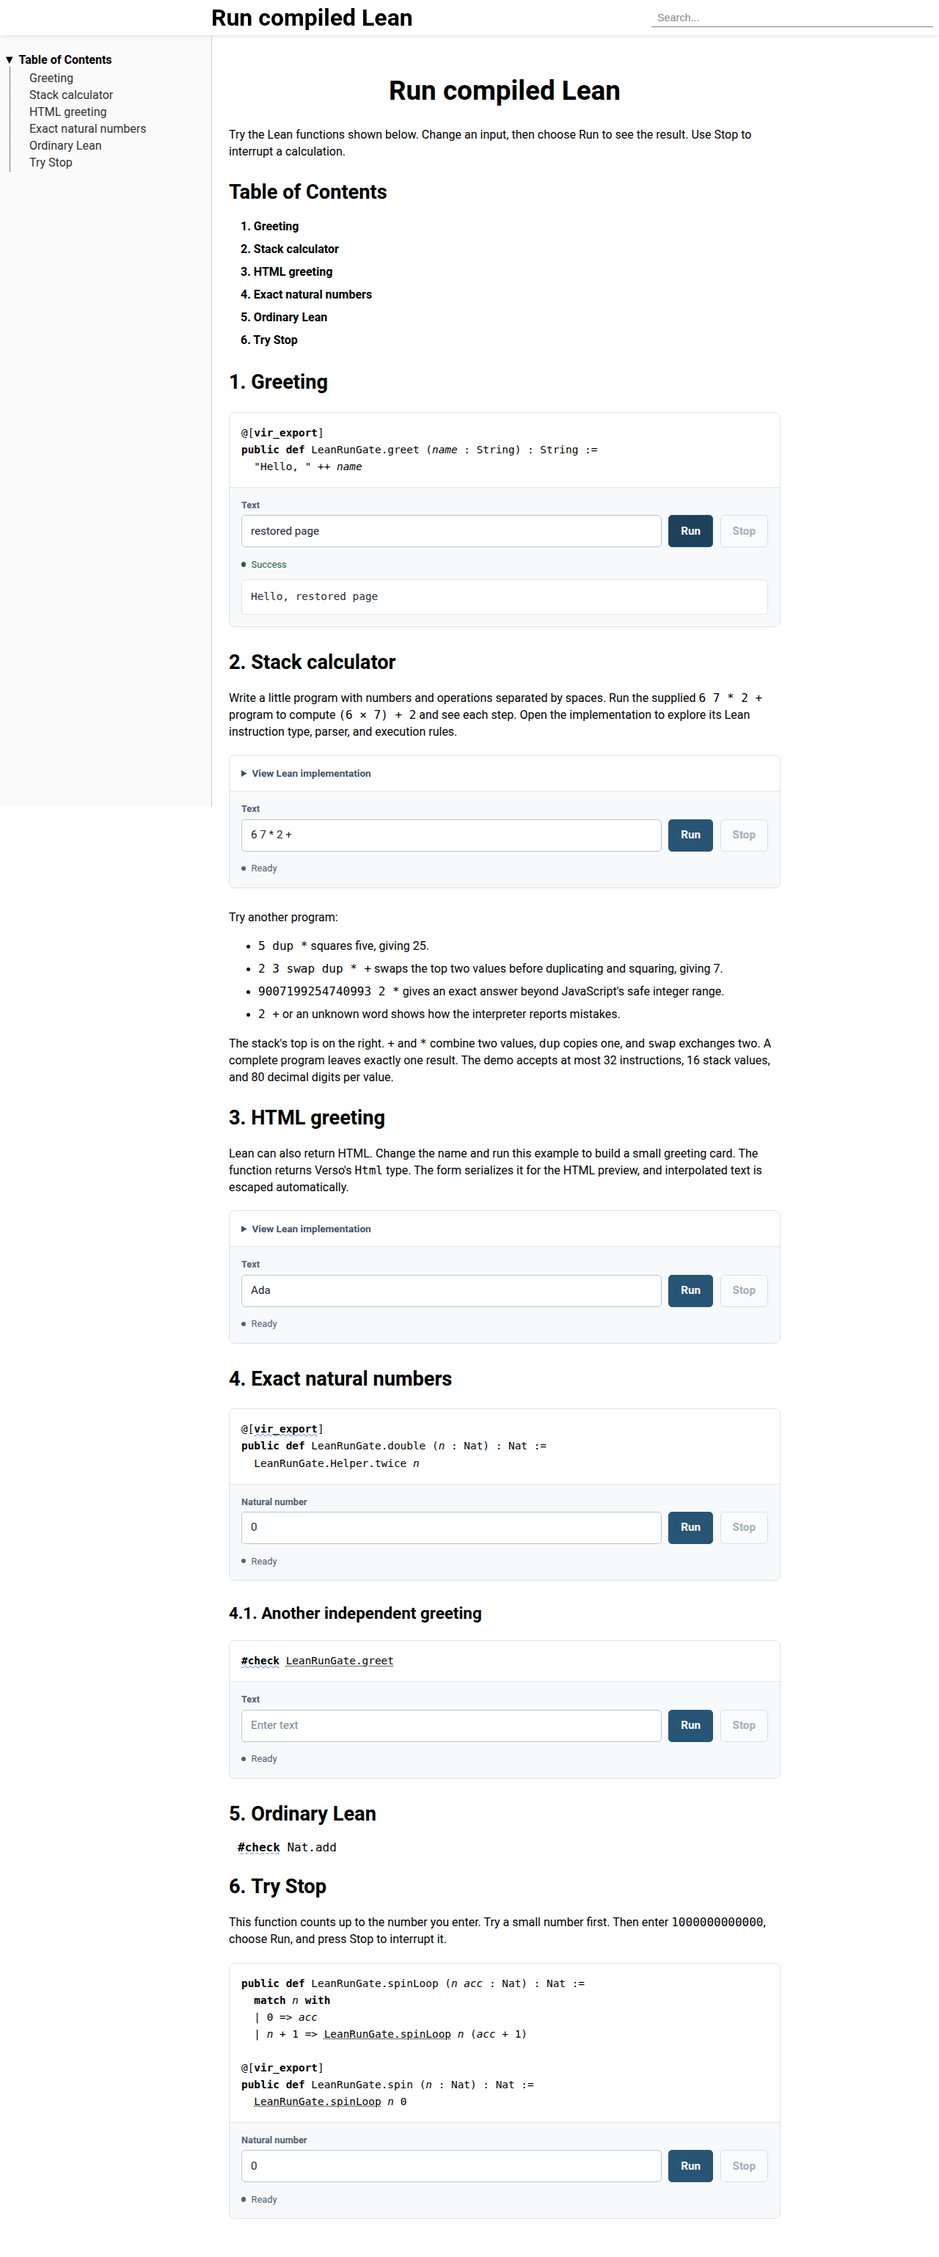
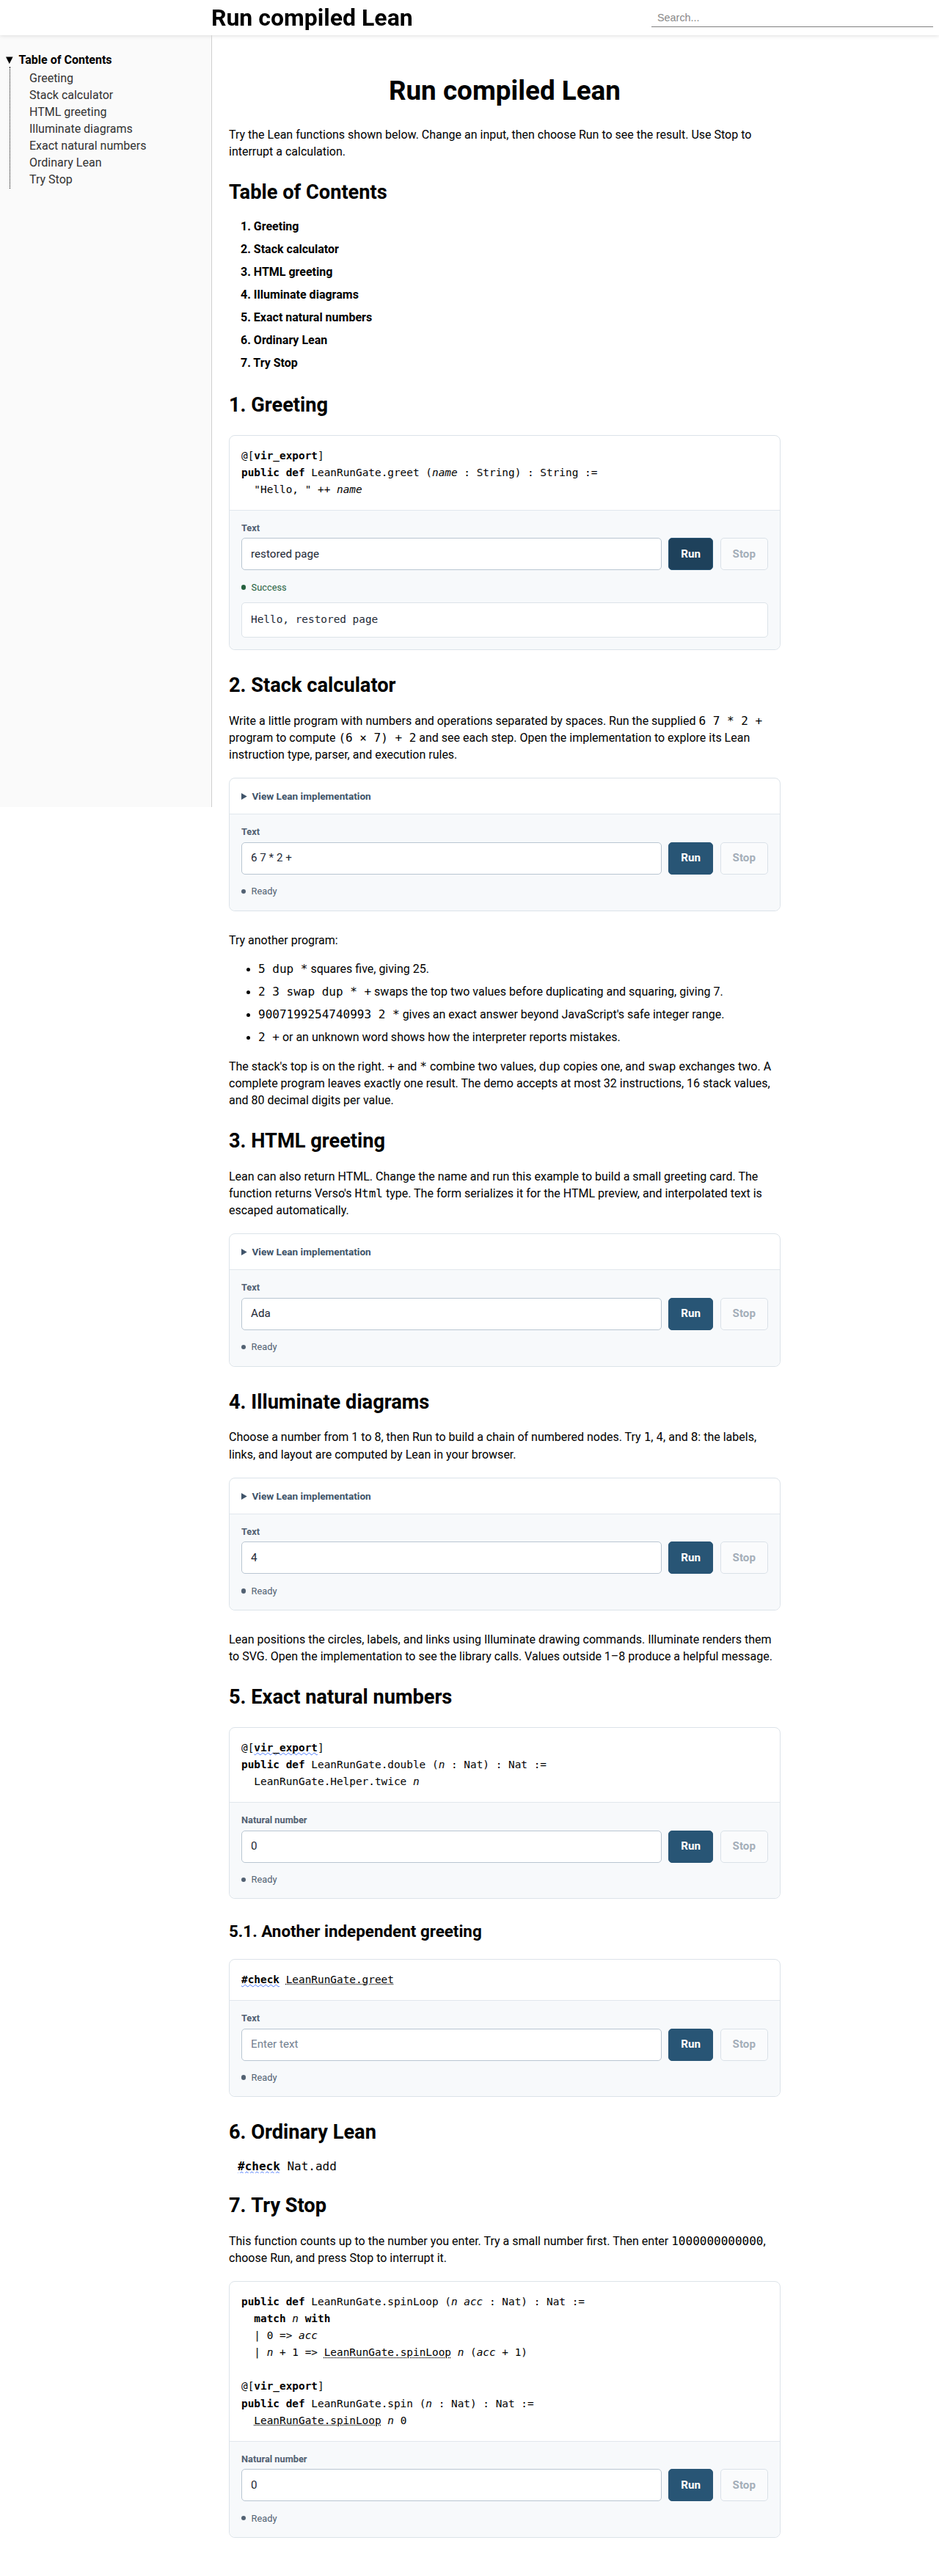
feat: add a compiled Illuminate SVG demo
This PR adds an editable Illuminate node-chain example to the compiled Manual demo. Parse a count from 1 to 8, compute coordinates and a view box in Lean, and render real SVG through Illuminate's public PathData, Matrix, DrawCmd, style, and Svg.render APIs. Return typed Verso HTML through the existing generated scalar adapter and sandboxed preview.

Pin Illuminate to the release's Lean 4.34 revision and update VIR to PR #217 snapshot 1ed079ca. Retain the locked runtime and existing compiler contracts. Record reproducible Float.toBits, Float.atan, and Float.asin gaps in the general diagram pipeline; qualify the drawing-command path and preserve native library source.

Validate a clean optional-package build, all 55 native/browser acceptance and mutation checks, root lake build, and lake test (647 tests plus 10 editor checks). Cover edited SVG labels, links, native markup, changing geometry, count bounds, copied root/nested deployments, source fallback, and the retained lifecycle/registration checks. Inspect desktop/mobile/320px layouts and refresh the live demo, archive, screenshots, and evidence.

Changelog-label: changelog-feature

diff --git a/tests/acceptance.py b/tests/acceptance.py
@@ -42,7 +42,7 @@ plan = json.loads((site/'html-multi/lean-run/publication.json').read_text())
 assert plan == json.loads((site/'html-single/lean-run/publication.json').read_text())
 assert plan == json.loads((OUTPUT/'native-only/html-multi/lean-run/publication.json').read_text())
 published = plan['programs']['LeanRunGate.Chapter']
-for declaration, type_name in [('greet', 'String'), ('Stack.run', 'String'), ('htmlGreeting.leanRunHtml', 'String'), ('double', 'Nat'), ('spin', 'Nat')]:
+for declaration, type_name in [('greet', 'String'), ('Stack.run', 'String'), ('htmlGreeting.leanRunHtml', 'String'), ('diagram.leanRunHtml', 'String'), ('double', 'Nat'), ('spin', 'Nat')]:
     contract = published['LeanRunGate.'+declaration]['expectedExport']
     assert contract['declaration'] == 'LeanRunGate.'+declaration
     assert contract['signature']['effect'] == 'pure'
@@ -118,6 +118,7 @@ with sync_playwright() as p:
     spin = form_for('LeanRunGate.spin')
     calculator = form_for('LeanRunGate.Stack.run')
     html_form = form_for('LeanRunGate.htmlGreeting.leanRunHtml')
+    diagram_form = form_for('LeanRunGate.diagram.leanRunHtml')
     assert calculator.locator('details').get_attribute('open') is None
     calculator.locator('summary').press('Enter')
     assert calculator.locator('details').get_attribute('open') is not None
@@ -187,6 +188,39 @@ with sync_playwright() as p:
     assert html_form.frame_locator('iframe').locator('h2').inner_text() == 'Hello, after edit!'
     record('HTML preview is isolated and cleared on input changes before a fresh invocation')
 
+    assert diagram_form.locator('input').input_value() == '4'
+    diagram_widths = []
+    for count in [1, 4, 8, 2]:
+        assert call(diagram_form, str(count)) == ''
+        markup = oracle('diagram', str(count))
+        assert markup in diagram_form.locator('iframe').get_attribute('srcdoc')
+        frame = diagram_form.frame_locator('iframe')
+        svg = frame.locator('svg')
+        assert svg.count() == 1
+        assert svg.locator('text').all_text_contents() == [str(i+1) for i in range(count)]
+        assert svg.locator('path[fill="none"]').count() == 2 * count - 1
+        assert svg.locator('path[fill="rgb(237,245,255)"]').count() == count
+        assert f'{count} nodes, {count-1} links' in frame.locator('body').inner_text()
+        assert svg.locator('script').count() == 0
+        assert svg.evaluate('e => e.getBoundingClientRect().width > 0')
+        bounds = [float(x) for x in svg.get_attribute('viewBox').split()]
+        assert bounds == [-29, -29, (count-1)*60+58, 58]
+        diagram_widths.append(bounds[2])
+    assert diagram_widths[0] < diagram_widths[1] < diagram_widths[2]
+    record('Illuminate SVG drawing commands execute in Wasm with native markup, labels, links and changing geometry')
+    for value in ['', '0', '9', '-1', '1.5', 'nodes', '100000000000000000000']:
+        assert call(diagram_form, value) == ''
+        assert oracle('diagram', value) in diagram_form.locator('iframe').get_attribute('srcdoc')
+        frame = diagram_form.frame_locator('iframe')
+        assert 'from 1 to 8' in frame.locator('[role=alert]').inner_text()
+        assert frame.locator('svg').count() == 0
+    assert call(diagram_form, '3') == ''
+    assert diagram_form.frame_locator('iframe').locator('svg text').count() == 3
+    diagram_form.locator('input').fill('5')
+    assert diagram_form.locator('iframe').is_hidden()
+    assert call(diagram_form, '5') == ''
+    record('Illuminate validates bounded node counts and clears/recreates its preview after edits')
+
     page.reload()
     page.wait_for_selector('.lean-run[data-enhanced]')
     html_form = form_for('LeanRunGate.htmlGreeting.leanRunHtml')
@@ -250,7 +284,7 @@ with sync_playwright() as p:
     record('native/browser exact Nat oracle: zero, edited, large integers')
     assert call(other,'independent') == oracle('greet','independent')
     assert greeting.locator('.lean-run-output').text_content() == oracle('greet','<img src=x onerror=alert(1)>')
-    assert len(set(page.locator('.lean-run').evaluate_all('(es) => es.map(e => e.dataset.instance)'))) == 6
+    assert len(set(page.locator('.lean-run').evaluate_all('(es) => es.map(e => e.dataset.instance)'))) == 7
     record('independent repeated placements')
     for value in ['-1','1.5','abc','',' 1','1e3','9'*257]:
         numeric.locator('input').fill(value)
@@ -327,20 +361,32 @@ with sync_playwright() as p:
         page.wait_for_selector('.lean-run[data-enhanced]')
         assert call(form_for('LeanRunGate.greet'),'relocated') == oracle('greet','relocated')
     record('copied output executes from root and nested page/prefix')
+    for path in ['root/Illuminate-diagrams/', 'nested/prefix/manual/Illuminate-diagrams/']:
+        page.goto(base+path)
+        page.wait_for_selector('.lean-run[data-enhanced]')
+        form = form_for('LeanRunGate.diagram.leanRunHtml')
+        assert call(form, '6') == ''
+        assert oracle('diagram', '6') in form.locator('iframe').get_attribute('srcdoc')
+        assert form.frame_locator('iframe').locator('svg text').count() == 6
+    record('Illuminate executes from copied root and nested HTTP deployments')
     context = browser.new_context(java_script_enabled=False)
     plain = context.new_page()
     plain.goto(base+'single/')
     assert 'public def LeanRunGate.greet' in plain.locator('body').inner_text()
     assert '#check Nat.add' in plain.locator('body').inner_text()
     assert plain.locator('.lean-run [type=submit]').first.is_disabled()
-    assert plain.locator('.lean-run noscript').count() == 6
+    assert plain.locator('.lean-run noscript').count() == 7
     assert all('Enable JavaScript' in text for text in plain.locator('.lean-run noscript').all_text_contents())
     plain_calculator = plain.locator('.lean-run[data-experiment*="LeanRunGate.Stack.run"]')
     plain_calculator.locator('summary').click()
     assert 'public inductive Instruction' in plain_calculator.locator('.lean-run-source').inner_text()
+    plain_diagram = plain.locator('.lean-run[data-experiment*="LeanRunGate.diagram.leanRunHtml"]')
+    plain_diagram.locator('summary').click()
+    assert 'public def LeanRunGate.diagram' in plain_diagram.locator('.lean-run-source').inner_text()
+    assert 'Svg.render' in plain_diagram.locator('.lean-run-source').inner_text()
     context.close()
     tex=(site/'tex/main.tex').read_text()
-    assert 'LeanRunGate' in tex and 'Nat.add' in tex and 'Instruction' in tex
+    assert 'LeanRunGate' in tex and 'Nat.add' in tex and 'Instruction' in tex and 'Svg.render' in tex
     record('JavaScript-disabled highlighting and TeX source fallback')
     assert not errors, errors
 

diff --git a/README.md b/README.md
@@ -2,7 +2,7 @@
 
 This optional package adds a first Run form to Verso Manual. Lean elaborates and compiles the displayed declarations during the document build. A dedicated browser worker calls those retained declarations through VIR's public resource API. Readers edit inputs, not Lean source.
 
[2 lines of base64/hex data omitted]
 
 ## Build, generate, serve, test
 
@@ -18,9 +18,13 @@ Open <http://127.0.0.1:8794/Greeting/>. Single-page output is in `_out/html-sing
 
 For the longer internal-demo example, open <http://127.0.0.1:8794/Stack-calculator/>. It implements a small typed instruction language, parser, stack evaluator, and execution trace in the displayed Lean code. Run the supplied `6 7 * 2 +` program, then try `5 dup *`, `2 3 swap dup * +`, or `9007199254740993 2 *`. An empty program, unknown instruction, or stack underflow returns a readable explanation. The demo bounds programs to 32 instructions, stacks to 16 values, and numbers to 80 decimal digits, including intermediate results.
 
-A clean complete copy for sharing is available at `_out/lean-run-demo.zip`. Unpack it, then run `python3 -m http.server 8794 --directory lean-run-demo` and open `/Stack-calculator/` or `/HTML-greeting/`. The recipient needs no Lean installation.
+A clean complete copy for sharing is available at `_out/lean-run-demo.zip`. Unpack it, then run `python3 -m http.server 8794 --directory lean-run-demo` and open `/Stack-calculator/`, `/HTML-greeting/`, or `/Illuminate-diagrams/`. The recipient needs no Lean installation.
 
 Open <http://127.0.0.1:8794/HTML-greeting/> for a small HTML example. Its Lean function returns Verso’s `Html` type for a styled greeting card. The block generates a scalar export using `Html.asString` and selects the HTML preview automatically. Verso’s HTML syntax escapes interpolated names.
+
+Open <http://127.0.0.1:8794/Illuminate-diagrams/> for the library example. Enter a node count from 1 to 8 and Run: Lean positions numbered circles and links, builds Illuminate drawing commands, and renders SVG through `Illuminate.Svg.render`. The browser only displays the returned markup. Invalid counts produce a helpful message. The displayed function returns `Verso.Output.Html` and uses the existing generated scalar adapter.
+
+Illuminate is pinned to `a1a61c9678da010e958ed24cdfa6f635b85f172a`, the same Lean 4.34.0 revision used by this Verso release. The example uses its public `DrawCmd`, `PathData`, `Matrix`, style, and SVG APIs. Layout coordinates and the view box are computed in the example. It is qualified for this drawing-command path; general `Diagram.renderDiagram` and `Diagram.compile` still reach float operations absent from the locked VIR runtime. Reproducible author fixtures and details are in [`evidence/illuminate-gates.md`](evidence/illuminate-gates.md).
 
 The optional package's test driver uses the repository's Python/Playwright browser tooling. Install `uv` and a Chromium browser first. Tests use installed `google-chrome` when available, otherwise Playwright's installed Chromium:
 
@@ -134,6 +138,6 @@ Forms group the highlighted source above a quiet input/result area, with aligned
 
 ## Retained evidence
 
-`evidence/results.json` records the 49 final acceptance checks and exact publication identities; `evidence/manual.png` is a browser capture. `evidence/worker-gate.json` retains the independent public API create/call/dispose/recreate gate, and `evidence/validation.txt` records root regression results. The browser checks cover edited inputs, Unicode, exact integers above JavaScript's safe range, repeated placements, real long-running interruption, pending-load cancellation, ignored stale outcomes, missing resources with explicit recovery, root/nested copied publication, disabled JavaScript, TeX, body/helper invalidation, restored identity, compiler-signature publication in both layouts and native-only generation, rejection of mismatched or missing expectations before invocation, duplicate/missing/ambiguous registration, and carrier relocation across source/build roots with unchanged publication. Screenshots supplement those execution checks. `evidence/design-results.json` records the 30 non-mutation interaction checks repeated after the visual refinement; `design-desktop.png`, `design-mobile.png`, and the other `design-*.png` captures show the final layout. Chromium reviews cover 1280px, 390px, and 320px widths, keyboard submission/focus, long exact-Nat wrapping, narrow-screen search, and the JavaScript-disabled fallback. The 49-check campaign in `results.json` additionally covers the calculator preset/trace, arithmetic, errors, bounds, source disclosure, typed HTML adapter reuse and collision checks, non-executable/private entry rejection, HTML preview/native markup agreement, escaped input, isolation, cleanup, and failure recovery. `calculator-*.png` captures the longer example with its source panel closed and open.
+`evidence/results.json` records the 55 final acceptance checks and exact publication identities; `evidence/manual.png` is a browser capture. `evidence/worker-gate.json` retains the independent public API create/call/dispose/recreate gate, and `evidence/validation.txt` records root regression results. The browser checks cover edited inputs, Unicode, exact integers above JavaScript's safe range, repeated placements, real long-running interruption, pending-load cancellation, ignored stale outcomes, missing resources with explicit recovery, root/nested copied publication, disabled JavaScript, TeX, body/helper invalidation, restored identity, compiler-signature publication in both layouts and native-only generation, rejection of mismatched or missing expectations before invocation, duplicate/missing/ambiguous registration, and carrier relocation across source/build roots with unchanged publication. Screenshots supplement those execution checks. `evidence/design-results.json` records the 30 non-mutation interaction checks repeated after the visual refinement; `design-desktop.png`, `design-mobile.png`, and the other `design-*.png` captures show the final layout. Chromium reviews cover 1280px, 390px, and 320px widths, keyboard submission/focus, long exact-Nat wrapping, narrow-screen search, and the JavaScript-disabled fallback. The 55-check campaign in `results.json` additionally covers the calculator preset/trace, arithmetic, errors, bounds, source disclosure, typed HTML adapter reuse and collision checks, non-executable/private entry rejection, HTML preview/native markup agreement, escaped input, isolation, cleanup, failure recovery, and Illuminate native/browser markup, drawing geometry, count bounds, and copied deployments. `illuminate-*.png` captures the new diagram on desktop and mobile. `calculator-*.png` captures the longer example with its source panel closed and open.
 
 Browser execution is qualified here in Chromium. Firefox, Safari, physical mobile devices, and assistive-technology audits were not exercised. The cached-page lifecycle handler is checked with a persisted `PageTransitionEvent`; actual back-cache restoration across browsers remains unqualified. Porting to current Verso main's Lean 4.35.0-rc3 requires a compatible VIR/runtime release and is not included.

diff --git a/evidence/illuminate-gates.md b/evidence/illuminate-gates.md
@@ -1,0 +1,54 @@
+# Illuminate execution gates
+
+The diagram example uses unchanged Illuminate source at
+`a1a61c9678da010e958ed24cdfa6f635b85f172a` (Lean 4.34.0), matching the
+Verso release dependency. VIR is PR #217 snapshot
+`1ed079ca2ab8306ae877ed4920f7d55d392365f8`. Its runtime bundle remains
[1 lines of base64/hex data omitted]
+The earlier local Illuminate checkout at `006dc1d1` also built under 4.34,
+but the demo uses the matching release revision.
+
+## Accepted drawing-command path
+
+`LeanRunGate.diagram` parses and bounds the count (1–8), computes coordinates
+and a view box, constructs `PathData.circle`, line paths, matrix transforms,
+colors, and text as `Array (DrawCmd Empty)`, and calls `Svg.render`.
+It returns typed Verso HTML; its generated `diagram.leanRunHtml` wrapper uses
+Verso's serializer at the scalar VIR boundary. The SVG renderer receives a
+fixed frame-local prefix. Each SVG preview lives in its own sandboxed frame.
+
+No Illuminate or VIR source patches, native-provider profiles, JavaScript
+geometry implementation, or build-time SVG lookup are used. The reader's
+edited count is executed by the existing dedicated Wasm worker. The browser
+checks compare the markup to native Lean, then inspect actual SVG labels,
+filled/stroked paths and view boxes. They cover counts 1, 4, 8, 2 and additional
+reruns, malformed/out-of-range counts, source fallback, and copied HTTP output.
+
+## General diagram APIs remain unqualified
+
+From `experiments/lean-run`, the following committed fixtures must fail on
+this pinned runtime:
+
+```sh
+lake env lean tests/negative/IlluminateHashing.lean
+lake env lean tests/negative/IlluminateCompile.lean
+lake env lean tests/negative/IlluminateAsin.lean
+```
+
+- `Diagram.renderDiagram` hashes diagram geometry for SVG ID prefixes.
+  Its compiled dependency closure reaches unsupported `Float.toBits`.
+- Even a circle passed to `Diagram.compile` retains the general compiler's
+  arrow branches. The first reported unsupported operation is `Float.atan`
+  through `ArrowDraw.minHalfAngle`.
+- That helper also uses `Float.asin`; the third fixture isolates the missing
+  native provider directly.
+
+The native extern catalog is unchanged between the original PR #217 pin
+`ff65dc8823e3c6be1ff5c549d89c3683c18e7fd9` and this snapshot. These failures
+were reproduced during author validation and remain part of acceptance.
+They are evidence for a VIR runtime/provider follow-up, not a claim that the
+whole Illuminate diagram API runs in this demo. `Float.toBits` has a Lean
+reference body, so VIR's existing explicit extern-fallback mechanism is
+another candidate to investigate for that particular operation; it was not
+needed or qualified for this example. The two inverse-trigonometric operations
+are opaque and need native support for the general diagram compiler.
